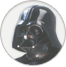
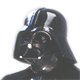
update layout

diff --git a/assets/css/main.css b/assets/css/main.css
@@ -106,7 +106,7 @@ html {
 }
 body {
   background: url("/assets/i/noise_2.png") #f0efe8;
-  text-shadow: 0 1px 0 rgba(255,255,255,0.5);
+  text-shadow: 0 1px 0 rgba(250,250,250,0.5);
   color: #261f00;
   line-height: 1.4;
 }
@@ -131,17 +131,31 @@ body {
   box-shadow: 0 1px 1px rgba(0,0,0,0.25);
 }
 .avatar {
-  background: url("/assets/i/avatar.png");
-  width: 66px;
-  height: 67px;
+  display: block;
+  width: 80px;
+  height: 80px;
+  position: absolute;
+  overflow: hidden;
+  right: 100%;
+  margin: -1rem 1rem 0 0;
+  background: url("/assets/i/avatar.png") #f2f2f2;
+  -webkit-background-size: cover;
+  -moz-background-size: cover;
+  background-size: cover;
+  -webkit-border-radius: 50%;
+  border-radius: 50%;
+  -webkit-box-shadow: inset 0 1px 3px rgba(0,0,0,0.5);
+  box-shadow: inset 0 1px 3px rgba(0,0,0,0.5);
+}
+.rss-link {
+  margin-top: 7px;
+  float: right;
+  color: #2996cc !important;
+  text-decoration: underline;
 }
 @media (min-width: 320px) {
   .avatar {
-    position: static;
-    margin: 0 auto 2rem;
-  }
-  .header p {
-    text-align: center;
+    display: none;
   }
   .wrapper {
     width: 280px;
@@ -162,12 +176,7 @@ body {
 }
 @media (min-width: 720px) {
   .avatar {
-    position: absolute;
-    left: -112px;
-    top: -10px;
-  }
-  .header p {
-    text-align: left;
+    display: block;
   }
   .wrapper {
     width: 728px;
@@ -210,6 +219,7 @@ a:hover {
 }
 .about {
   font-size: 0.8rem;
+  font-style: italic;
   color: #99968a;
   zoom: 1;
 }
@@ -242,7 +252,7 @@ h2,
 h3,
 h4,
 .header p {
-  margin-top: 0.5rem;
+  margin: 0.5rem 0 0 -2px;
   line-height: 1 !important;
 }
 li {
@@ -291,7 +301,7 @@ blockquote::after {
   content: "»";
   left: 100%;
   margin-left: 1rem;
-  bottom: -0.85rem;
+  bottom: -0.5rem;
 }
 ul {
   position: relative;
@@ -374,7 +384,7 @@ pre > code {
   display: block;
   width: 64px;
   text-align: center;
-  color: #99968a;
+  color: #261f00;
 }
 .articles-list__label {
   color: #736750;

diff --git a/_layouts/post.html b/_layouts/post.html
@@ -4,7 +4,8 @@
   <body>
     <div class="wrapper">
       <div class="header">
-        <div class="avatar"><!-- <img src="/assets/i/avatar.png"> --></div>
+        <div class="avatar"></div>
+        <a class="rss-link" href="/atom.xml">РСС</a>
         <p><a href="/">Ношу шлем, тяжело дышу</a></p>
       </div>
       {% include about.html %}
